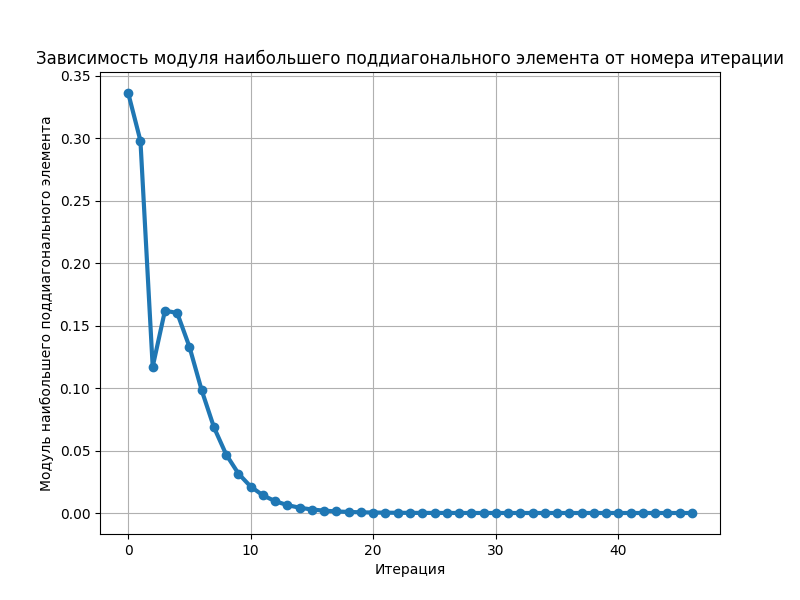
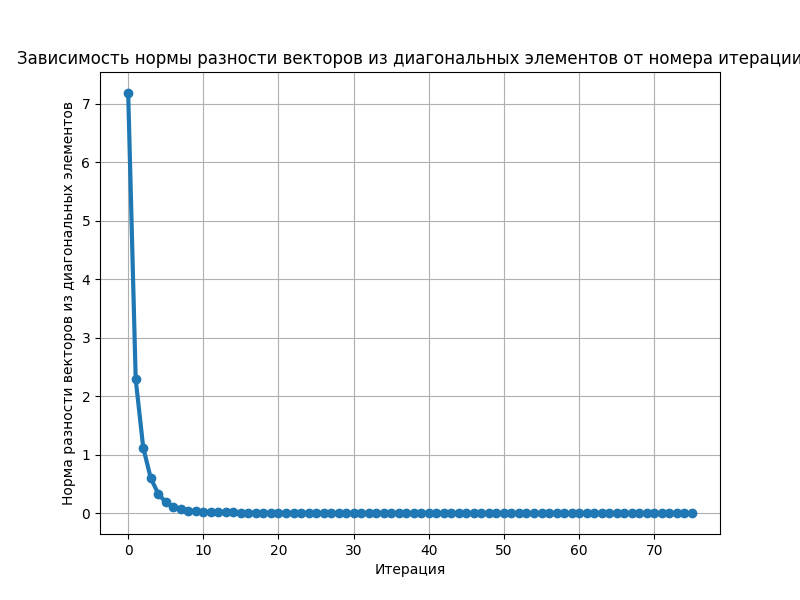
fix bug

diff --git a/eigen_solver.py b/eigen_solver.py
@@ -53,9 +53,11 @@ def qr_method(matrix: np.ndarray,
     A_k = copy(matrix).astype(float)
     for i in range(num_iterations):
         Q, R = qr_decomposition(A_k)
+
+        convergence = np.linalg.norm(np.diagonal(A_k) - np.diagonal(R @ Q))
+
         A_k = R @ Q
 
-        convergence = np.abs(np.min(np.diag(A_k, k=-1)))
         convergence_history.append(convergence)
 
         if convergence < epsilon:
@@ -65,8 +67,8 @@ def qr_method(matrix: np.ndarray,
         plt.figure(figsize=(8, 6))
         plt.plot(range(len(convergence_history)), convergence_history, marker='o', linestyle='-', linewidth=3)
         plt.xlabel('Итерация')
-        plt.ylabel('Модуль наибольшего поддиагонального элемента')
-        plt.title('Зависимость модуля наибольшего поддиагонального элемента от номера итерации')
+        plt.ylabel('Норма разности векторов из диагональных элементов')
+        plt.title('Зависимость нормы разности векторов из диагональных элементов от номера итерации')
         plt.grid(True)
 
         plt.savefig('qr_method_plot.png')
@@ -236,7 +238,7 @@ def calc_det(matrix: np.ndarray) -> np.ndarray:
 
 def get_characteristic_polynomial(matrix: np.ndarray) -> np.ndarray:
     """
-    Возращает коэффициенты характеристического полинома матрицы
+    Возращает коэффиценты характеристического полинома матрицы
 
     Аргументы:
     - matrix (np.ndarray): Исходная квадратная матрица.
